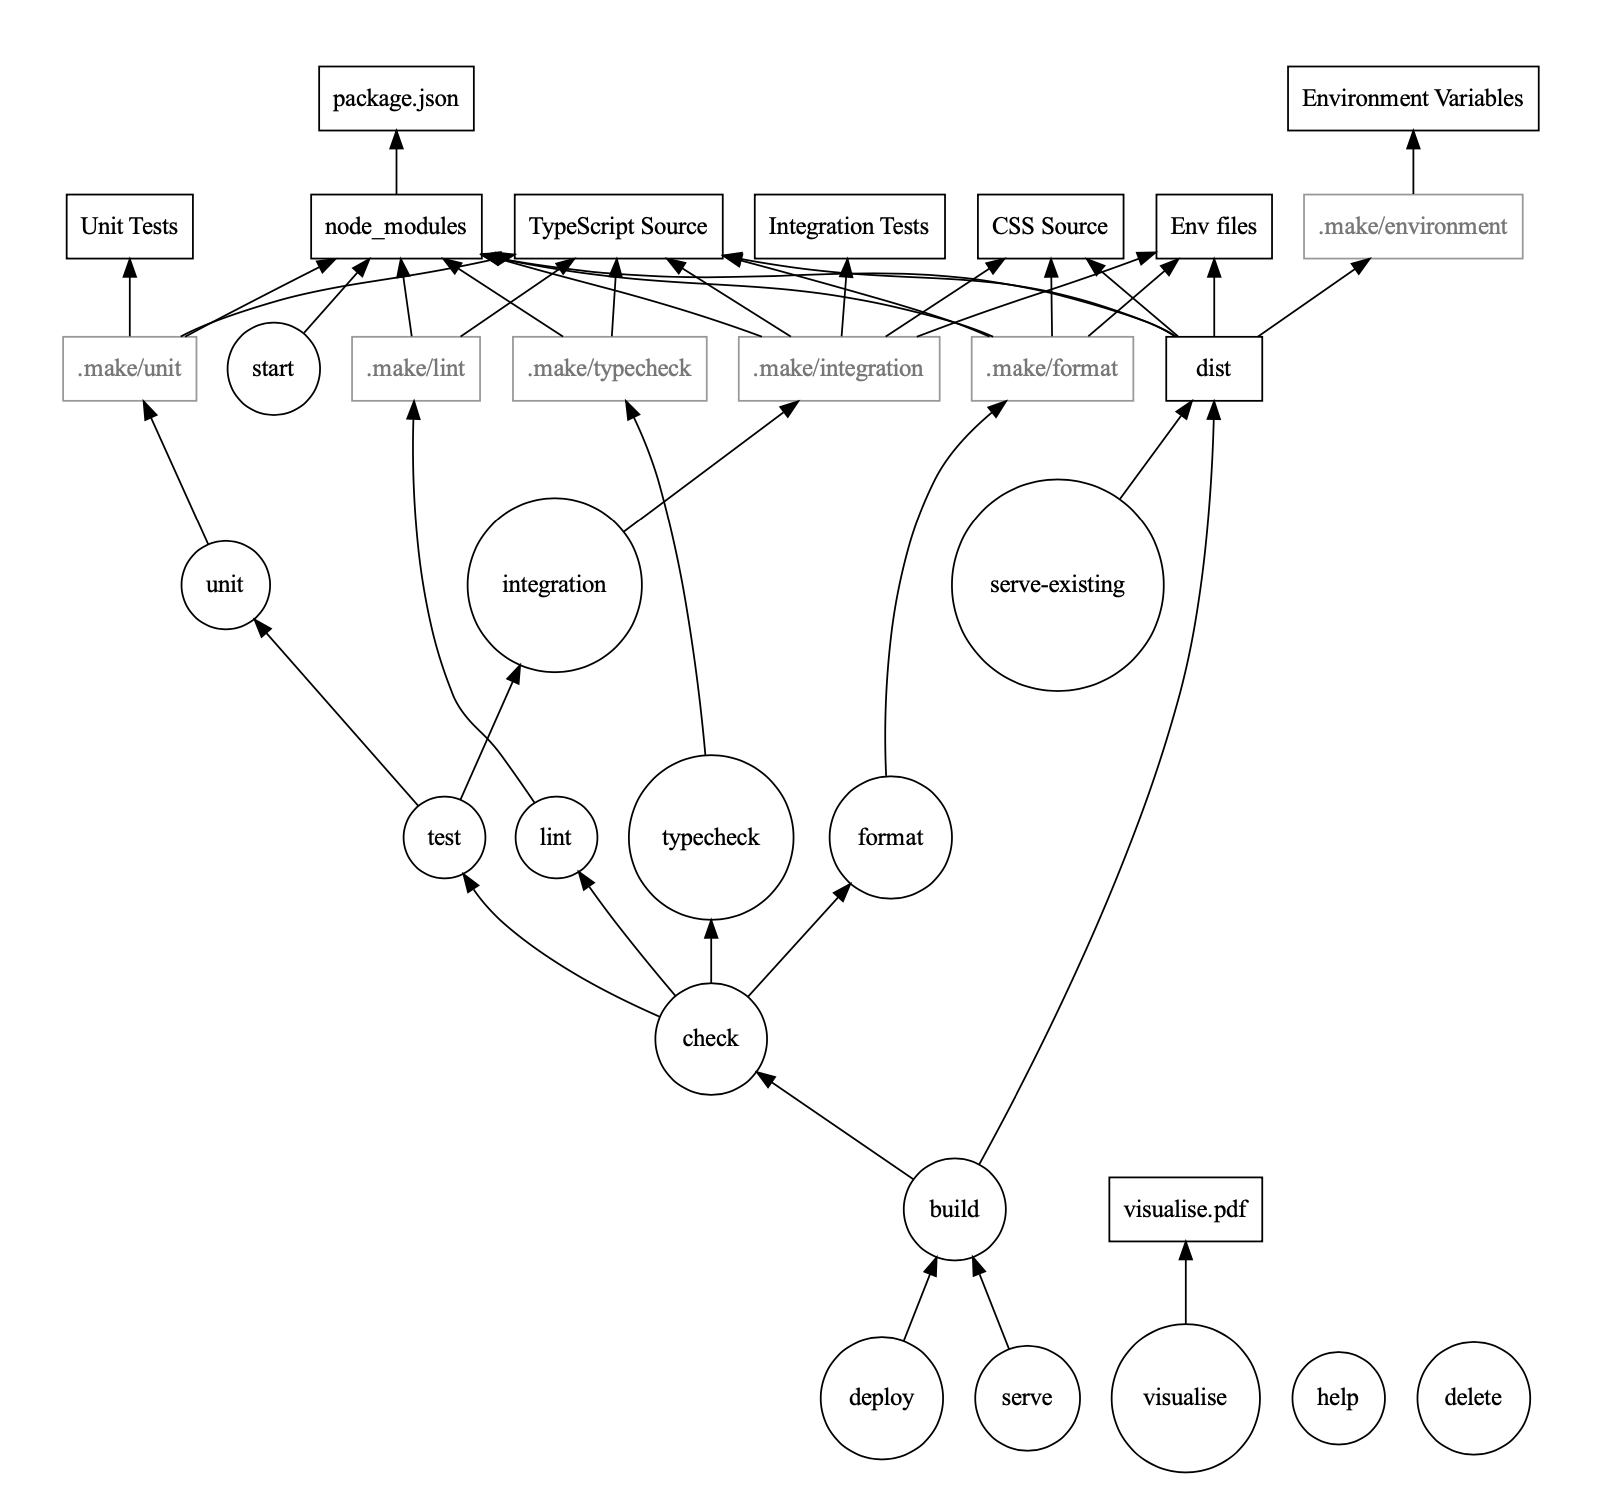
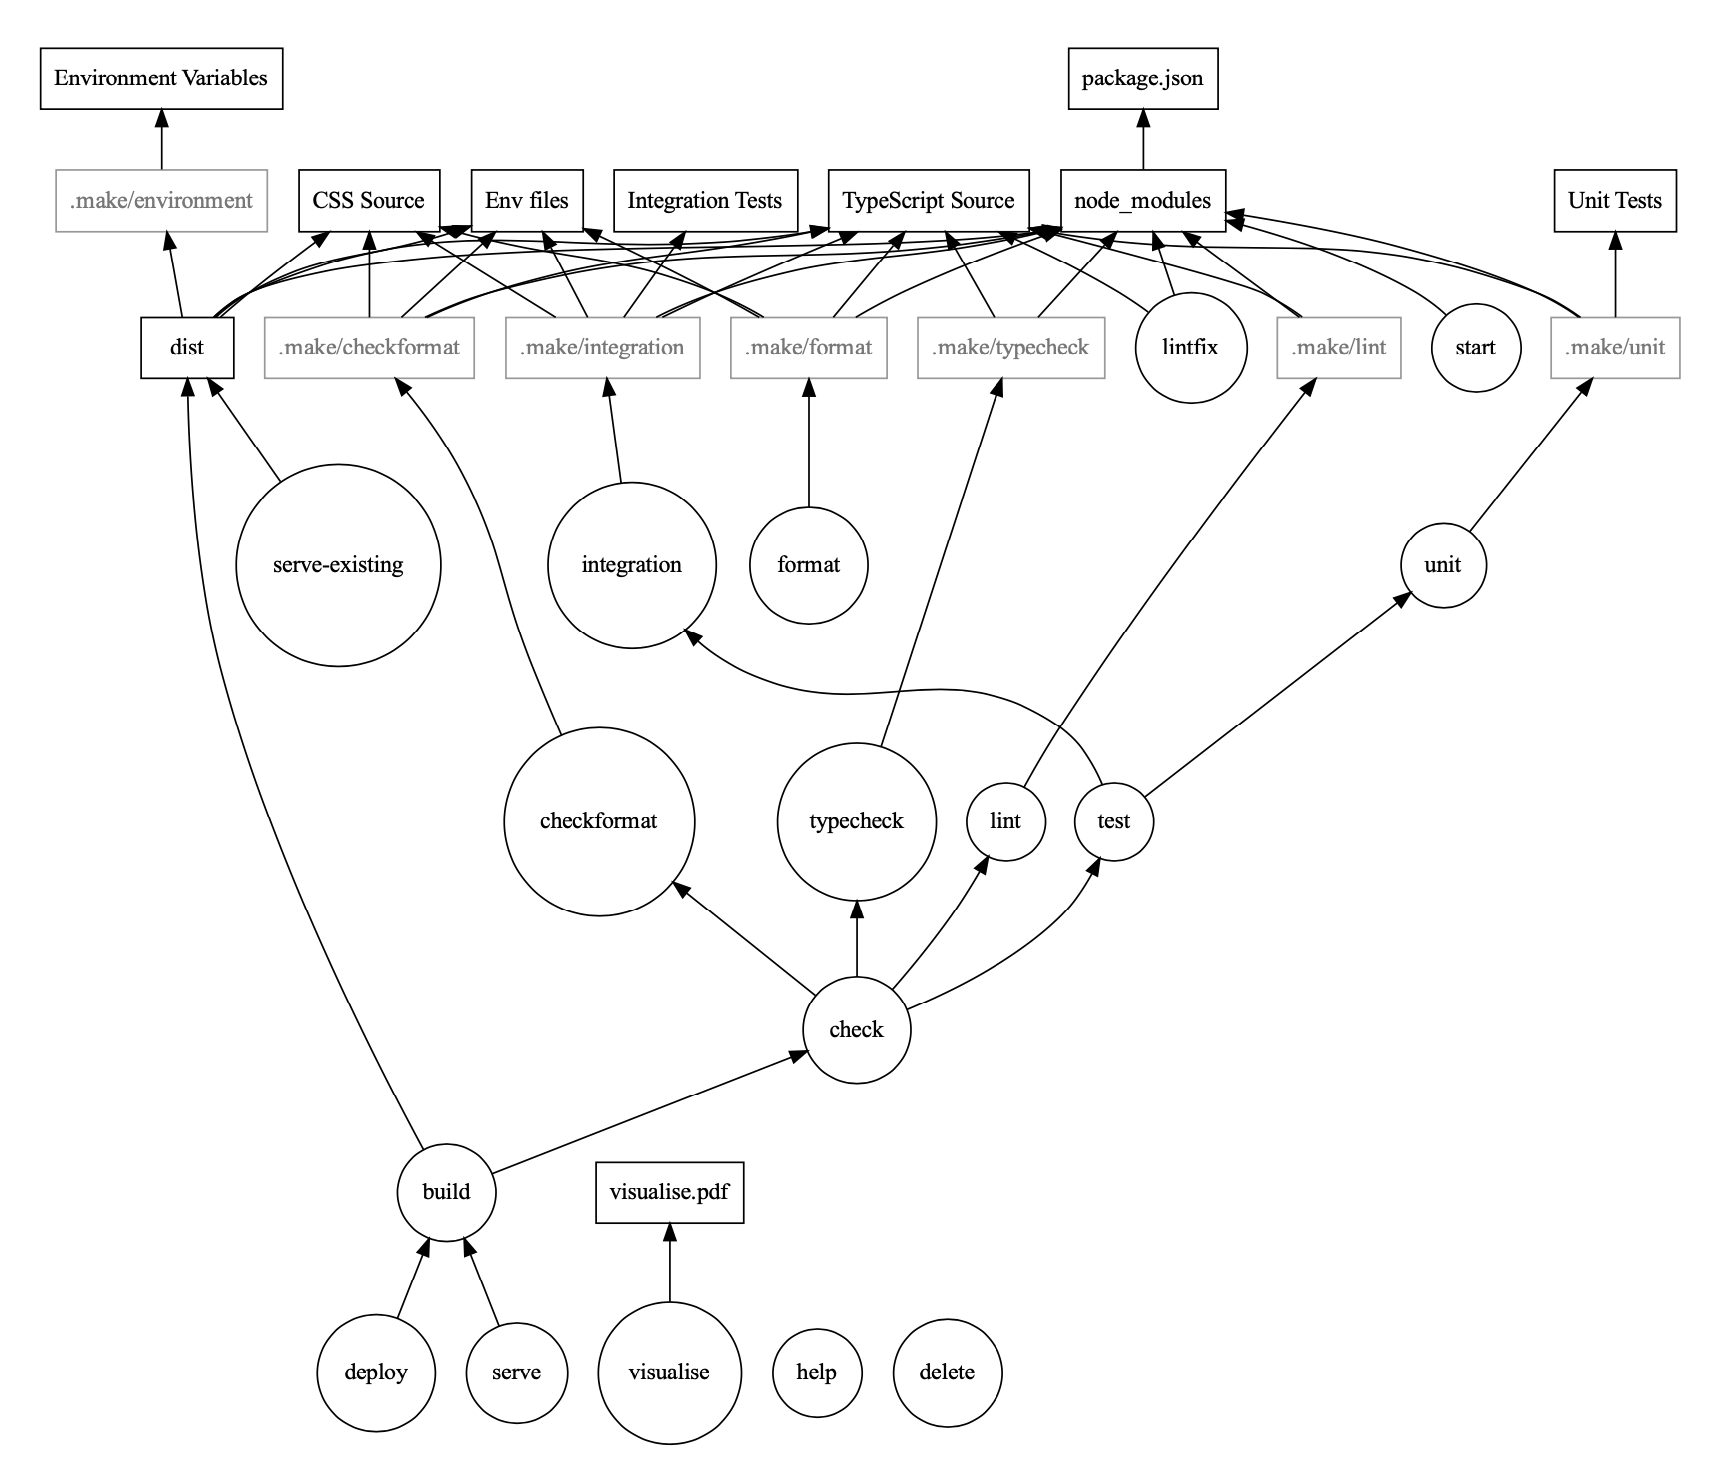
Split up 'format' and 'checkformat' jobs, same with linting

diff --git a/README.md b/README.md
@@ -13,7 +13,7 @@ Some features it has so far:
 - Autoformatting with Prettier
 - Routing with React-Router (v6)
 - Styling with Tailwind (v3, with JIT)
-- Precommit hooks with Husky
+- Precommit hooks with Husky to check linting, formatting and tests
 - Integration tests with Playwright
 - Visualised dependencies with GraphViz
 - Crash reporting with Rollbar
@@ -23,7 +23,7 @@ Some features it has so far:
 Using a Makefile is probably the most controversial choice here. This is done for a
 few reasons, such as:
 
-- Ease of chaining together operations (e.g. `make lint format test`)
+- Ease of chaining together operations (e.g. `make lintfix format test`)
 - Only running dependencies when needed.
 - Parallel builds
 
@@ -32,22 +32,23 @@ This setup looks intimidating, but I've listed some examples of how to interpret
 ![Big graph showing scary dependency tree](./Dependencies.png)
 
 ### Example 1: Building & Serving the App
+
 1. Run `make serve`
 2. `serve` depends on the app having been built, aka the `build` job.
 3. `build` depends on a code quality `check`, and then creates the `dist` folder.
-4. `check` runs `test`ing, `lint`ing, `typecheck`ing, and `format`ing on the codebase
+4. `check` runs `test`ing, `lint`ing, `typecheck`ing, and `checkformat`ing on the codebase
 5. `test` runs both `unit` and `integration` tests.
 6. `unit` tests rely on the files marked as `Unit Tests`, the `node_modules`, and the `TypeScript Source` -- but they don't rely on the CSS source or the Env files, for example.
 
 There's some magic here with the grayed-out file labeled `.make/unit`. This is a timestamp we create so that Make can see when we last ran unit tests, and compare that against the latest changes to the unit test files. If there are recent changes to the unit test files, we run the suite of unit tests again; if not, we can safely skip it!
 
 ### Example 2: Commit Hooks
+
 1. Run `make check` while developing a new feature
 2. Edit a CSS source file
 3. Run `make serve` to run a file server.
 
 Here, `make serve` depends on `build`, which depends on `check`. `check` will run both unit and integration tests. **However**, because `unit` doesn't depend on the CSS source files, Make knows we can safely skip it. We do re-run integration tests, since by using a library like Playwright we can check if our CSS changes have [obscured a previously-visible element](https://playwright.dev/docs/actionability).
-
 
 ## Interpreting the Makefile Graph
 
@@ -56,15 +57,14 @@ In this graph, round nodes are "phony" (i.e. they don't correspond to a real fil
 I've grouped lots of these files together into a single node, which matches up with the way I've used variables in the Makefile. This makes things lots easier to read!
 
 To interpret the graph, look at the bottom commands and what they depend on.
-For example, running `make deploy` will depend on the `build` task. The `build` task in turn depends on `node_modules`, `test`, `typecheck`, `lint`, `format`, and `dist`, and so on.
+For example, running `make deploy` will depend on the `build` task. The `build` task in turn depends on `node_modules`, `test`, `typecheck`, `lint`, `checkformat`, and `dist`, and so on.
 
 I've also got some greyed-out nodes which are real files, but probably not ones we care about. These are used to record the last time a command was run, e.g. when unit
 tests last passed. This is useful since running tests might be a slow operation and
 it's useful to skip it if the input files haven't changed.
 
-
-
 ## Parallel Builds
+
 Parallel builds are a very new feature to me, so I'm not fully confident they're working as planned. It's quite possible that to support parallel builds, it'd make sense to avoid all mutating jobs (e.g. Prettier's `--write` and ESLint's `--fix`).
 
 Unfortunately, all I have in front of me is a dual-core Intel machine, so...
@@ -81,6 +81,7 @@ make -Bj build  35.86s user 2.73s system 173% cpu 22.263 total
 
 ## Future Features
 
+- Format and lint fixing on commit (instead of just checking)
 - Separate NPM package with a design system
 - Develop with that package locally with hot reloading
 - Scripts for running with local vs remote copy of design system package
